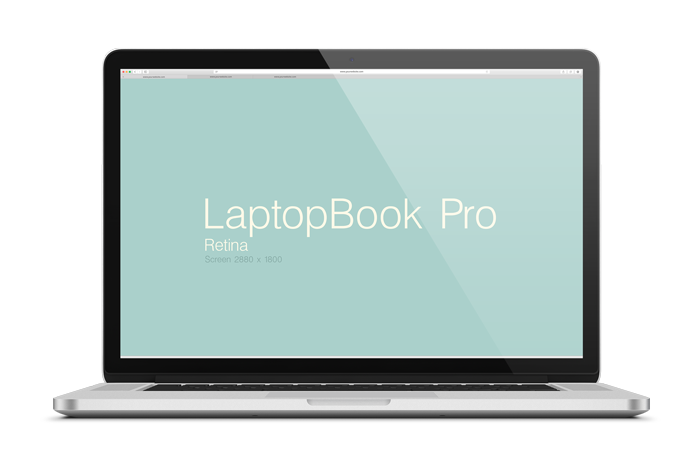
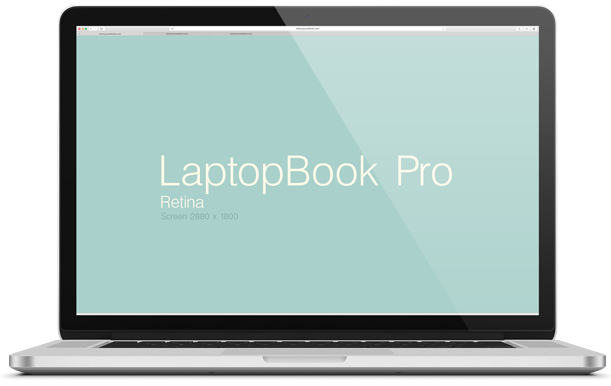
add footer - some algnment trouble to be corrected

diff --git a/app/assets/stylesheets/pages/_home.scss b/app/assets/stylesheets/pages/_home.scss
@@ -1,14 +1,16 @@
 // Specific CSS for your home-page
 .banner-landing {
 	width: 100%;
-	height: 115vh;
+	min-height: 800px;
 	margin: 0;
 	padding: 20px;
+	position: relative;
 	// background-color: $green;
 	color: white;
 	background: linear-gradient(171deg, $dark-gray, $green 77%);
 
 	.container-landing {
+
 		padding: 20px;
 		display: flex;
 		justify-content: space-between;
@@ -21,7 +23,7 @@
 	}
 
 	.landing-image {
-		margin-top: -30px;
+		margin-top: 10px;
 		// position: absolute;
 		// right: 25px;
 	}
@@ -41,7 +43,7 @@
     .landing-image {
     	position: absolute;
     	top: 200px;
-    	right: 0;
+    	right: 10px;
     }
   }
 
@@ -53,12 +55,12 @@
 
     .landing-title {
 		position: absolute;
-		top: 0;
+		top: 5px;
 		}
 
     .landing-image {
     	position: absolute;
-    	top: 270px;
+    	top: 275px;
     	right: -110px;
     }
   }

diff --git a/app/assets/stylesheets/components/_footer.scss b/app/assets/stylesheets/components/_footer.scss
@@ -1,0 +1,27 @@
+
+.footer-container {
+	opacity: 0.4;
+	width: 100%;
+	border-top: 1px solid $light-gray;
+	display: flex;
+	align-items: center;
+	justify-content: space-between;
+	padding: 3px 0;
+	position: absolute;
+	bottom: 0px;
+
+	p {
+		font-size: 12px;
+	}
+
+  a {
+    color: white;
+    opacity: 0.5;
+    text-decoration: none;
+    font-size: 12px;
+    padding: 0px 10px;
+    &:hover {
+      opacity: 1;
+    }
+  }
+}

diff --git a/app/assets/stylesheets/components/_index.scss b/app/assets/stylesheets/components/_index.scss
@@ -1,3 +1,4 @@
 // Import your components CSS files here.
 @import "alert";
 @import "navbar";
+@import "footer";
